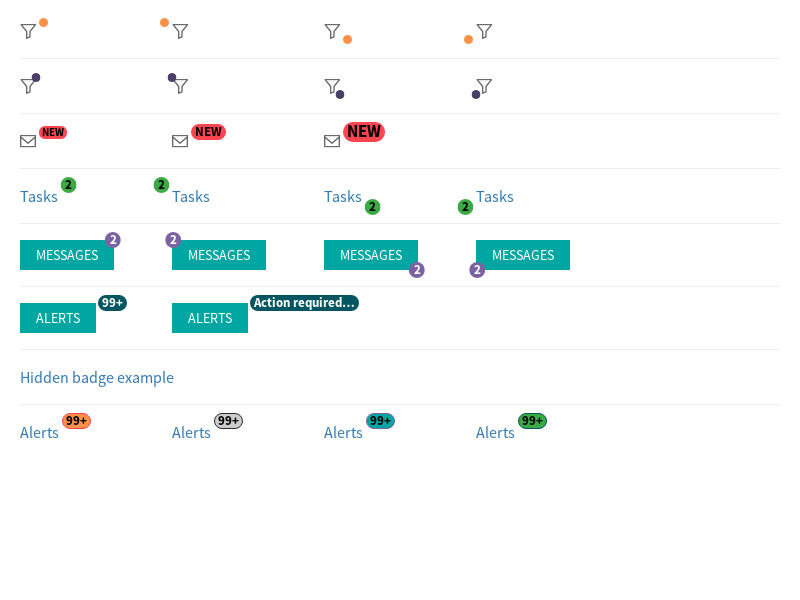
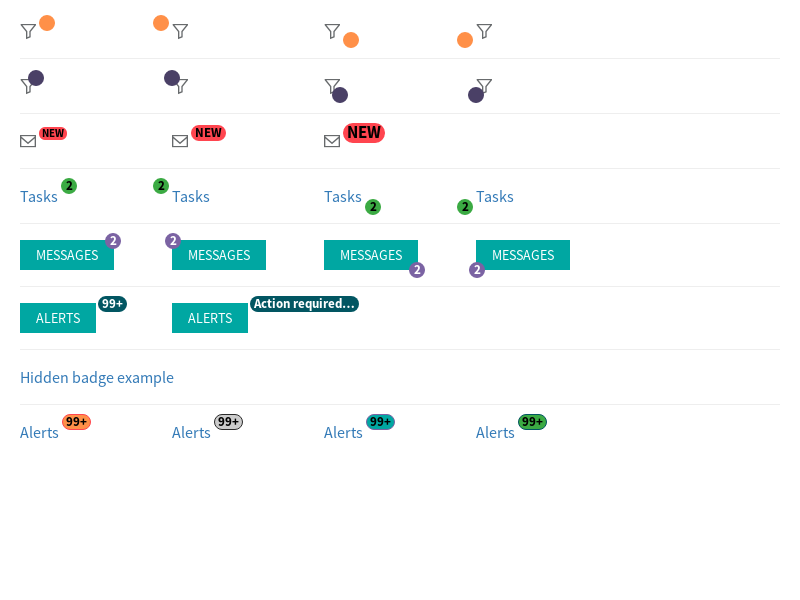
Allow theme or hex colors in the badge component. Allow multiple sizes in no content badge.

diff --git a/src/directives/badge/badge.spec.ts b/src/directives/badge/badge.spec.ts
@@ -36,7 +36,7 @@ export class BadgeTestComponent {
     overlap: boolean = false;
 }
 
-describe('Badge', () => {
+fdescribe('Badge', () => {
     let component: BadgeTestComponent;
     let fixture: ComponentFixture<BadgeTestComponent>;
     let nativeElement: HTMLElement;
@@ -74,10 +74,11 @@ describe('Badge', () => {
         fixture.detectChanges();
         await fixture.whenStable();
         const buttonWithBadge: HTMLButtonElement = document.querySelector(buttonSelector);
-        expect(buttonWithBadge.classList.contains('ux-badge-no-content')).toBeTruthy();
+        const badge: HTMLSpanElement = buttonWithBadge.querySelector(badgeSelector);
+        expect(badge.textContent.replace(/ /g, '')).toBe('');
     });
 
-    it('should set the background color correctly', async () => {
+    it('should set the background color with theme color', async () => {
         component.badgeColor = 'critical';
         fixture.detectChanges();
         await fixture.whenStable();
@@ -86,6 +87,18 @@ describe('Badge', () => {
         const badge: HTMLSpanElement = buttonWithBadge.querySelector(badgeSelector);
 
         expect(badge.style.background).toBe('rgb(255, 69, 79)');
+        expect(badge.style.color).toBe('rgb(0, 0, 0)');
+    });
+
+    it('should set the background color with hex color', async () => {
+        component.badgeColor = '#FFF';
+        fixture.detectChanges();
+        await fixture.whenStable();
+
+        const buttonWithBadge: HTMLButtonElement = document.querySelector(buttonSelector);
+        const badge: HTMLSpanElement = buttonWithBadge.querySelector(badgeSelector);
+
+        expect(badge.style.background).toBe('rgb(255, 255, 255)');
         expect(badge.style.color).toBe('rgb(0, 0, 0)');
     });
 

diff --git a/src/directives/badge/badge.directive.ts b/src/directives/badge/badge.directive.ts
@@ -2,6 +2,7 @@ import { AfterViewInit, Directive, ElementRef, HostBinding, Input, OnChanges, On
 import { ColorService } from '../../services/color/color.service';
 import { ThemeColor } from '../../services/color/theme-color';
 import { ContrastService } from '../accessibility/contrast-ratio/contrast.service';
+import { timeHours } from 'd3';
 
 export type BadgeVerticalPosition = 'above' | 'below';
 
@@ -17,8 +18,7 @@ export type BadgeSize = 'small' | 'medium' | 'large';
         '[class.ux-badge-above]': 'badgeVerticalPosition === "above"',
         '[class.ux-badge-below]': 'badgeVerticalPosition === "below"',
         '[class.ux-badge-after]': 'badgeHorizontalPosition === "after"',
-        '[class.ux-badge-before]': 'badgeHorizontalPosition === "before"',
-        '[class.ux-badge-no-content]': '!badgeContent',
+        '[class.ux-badge-before]': 'badgeHorizontalPosition === "before"'
     },
 })
 export class BadgeDirective implements AfterViewInit, OnChanges, OnDestroy {
@@ -210,6 +210,16 @@ export class BadgeDirective implements AfterViewInit, OnChanges, OnDestroy {
     }
 
     private parseThemeColor(color: string): ThemeColor {
-        return color && this._colorService.colorExists(color) ? ThemeColor.parse(this._colorService.resolve(color)) : null;
+        // check for hash color
+        if (this._colorService.isHex(color)) {
+            return ThemeColor.parse(color);
+        }
+
+        // check for theme color
+        if (color && (this._colorService.colorExists(color))) {
+            return ThemeColor.parse(this._colorService.resolve(color));
+        }
+
+        return null;
     }
 }

diff --git a/src/styles/notifications.less b/src/styles/notifications.less
@@ -137,16 +137,22 @@ ux-alert {
         border-radius: 7px;
         font-size: 11px;
         padding: 0 2px;
+        min-height: 12px;
+        min-width: 12px;
     }
 
     &.ux-badge-medium {
         border-radius: 9px;
         font-size: 13px;
+        min-height: 16px;
+        min-width: 16px;
     }
 
     &.ux-badge-large {
         border-radius: 11px;
         font-size: 17px;
+        min-height: 20px;
+        min-width: 20px;
     }
 }
 
@@ -169,10 +175,6 @@ ux-alert {
         .ux-badge-large {
             top: -11px;
         }
-
-        &.ux-badge-no-content .ux-badge {
-            top: -5px;
-        }
     }
 
     &.ux-badge-below {
@@ -190,10 +192,6 @@ ux-alert {
 
         .ux-badge-large {
             bottom: -11px;
-        }
-
-        &.ux-badge-no-content .ux-badge {
-            bottom: -5px;
         }
     }
 
@@ -229,17 +227,6 @@ ux-alert {
 
     &.ux-badge-hidden .ux-badge {
         display: none;
-    }
-
-    &.ux-badge-no-content {
-        .ux-badge {
-            border-radius: 50%;
-            width: 9px;
-            height: 9px;
-            display: block;
-            min-width: 9px;
-            padding: 0;
-        }
     }
 }
 

diff --git a/src/services/color/color.service.ts b/src/services/color/color.service.ts
@@ -2,6 +2,8 @@ import { Injectable, InjectFlags, Injector } from '@angular/core';
 import { COLOR_SET_TOKEN, ColorSet, colorSets } from './color-sets/index';
 import { ThemeColor } from './theme-color';
 
+export const HEX_REGEX = /^#([A-Fa-f0-9]{6}|[A-Fa-f0-9]{3})$/;
+
 @Injectable()
 export class ColorService {
 
@@ -89,6 +91,14 @@ export class ColorService {
     /** Determine if the current colorset has a specific color */
     colorExists(name: string): boolean {
         return !!Object.keys(this._theme).find(colorName => colorName === this.resolveColorName(name));
+    }
+
+    /**
+     * Checks if a color is a hex value
+     * @param color The color to check against
+     */
+    isHex(value: string): boolean {
+        return Boolean(value && value.match(HEX_REGEX));
     }
 
     /** Create a theme from a colorset */
